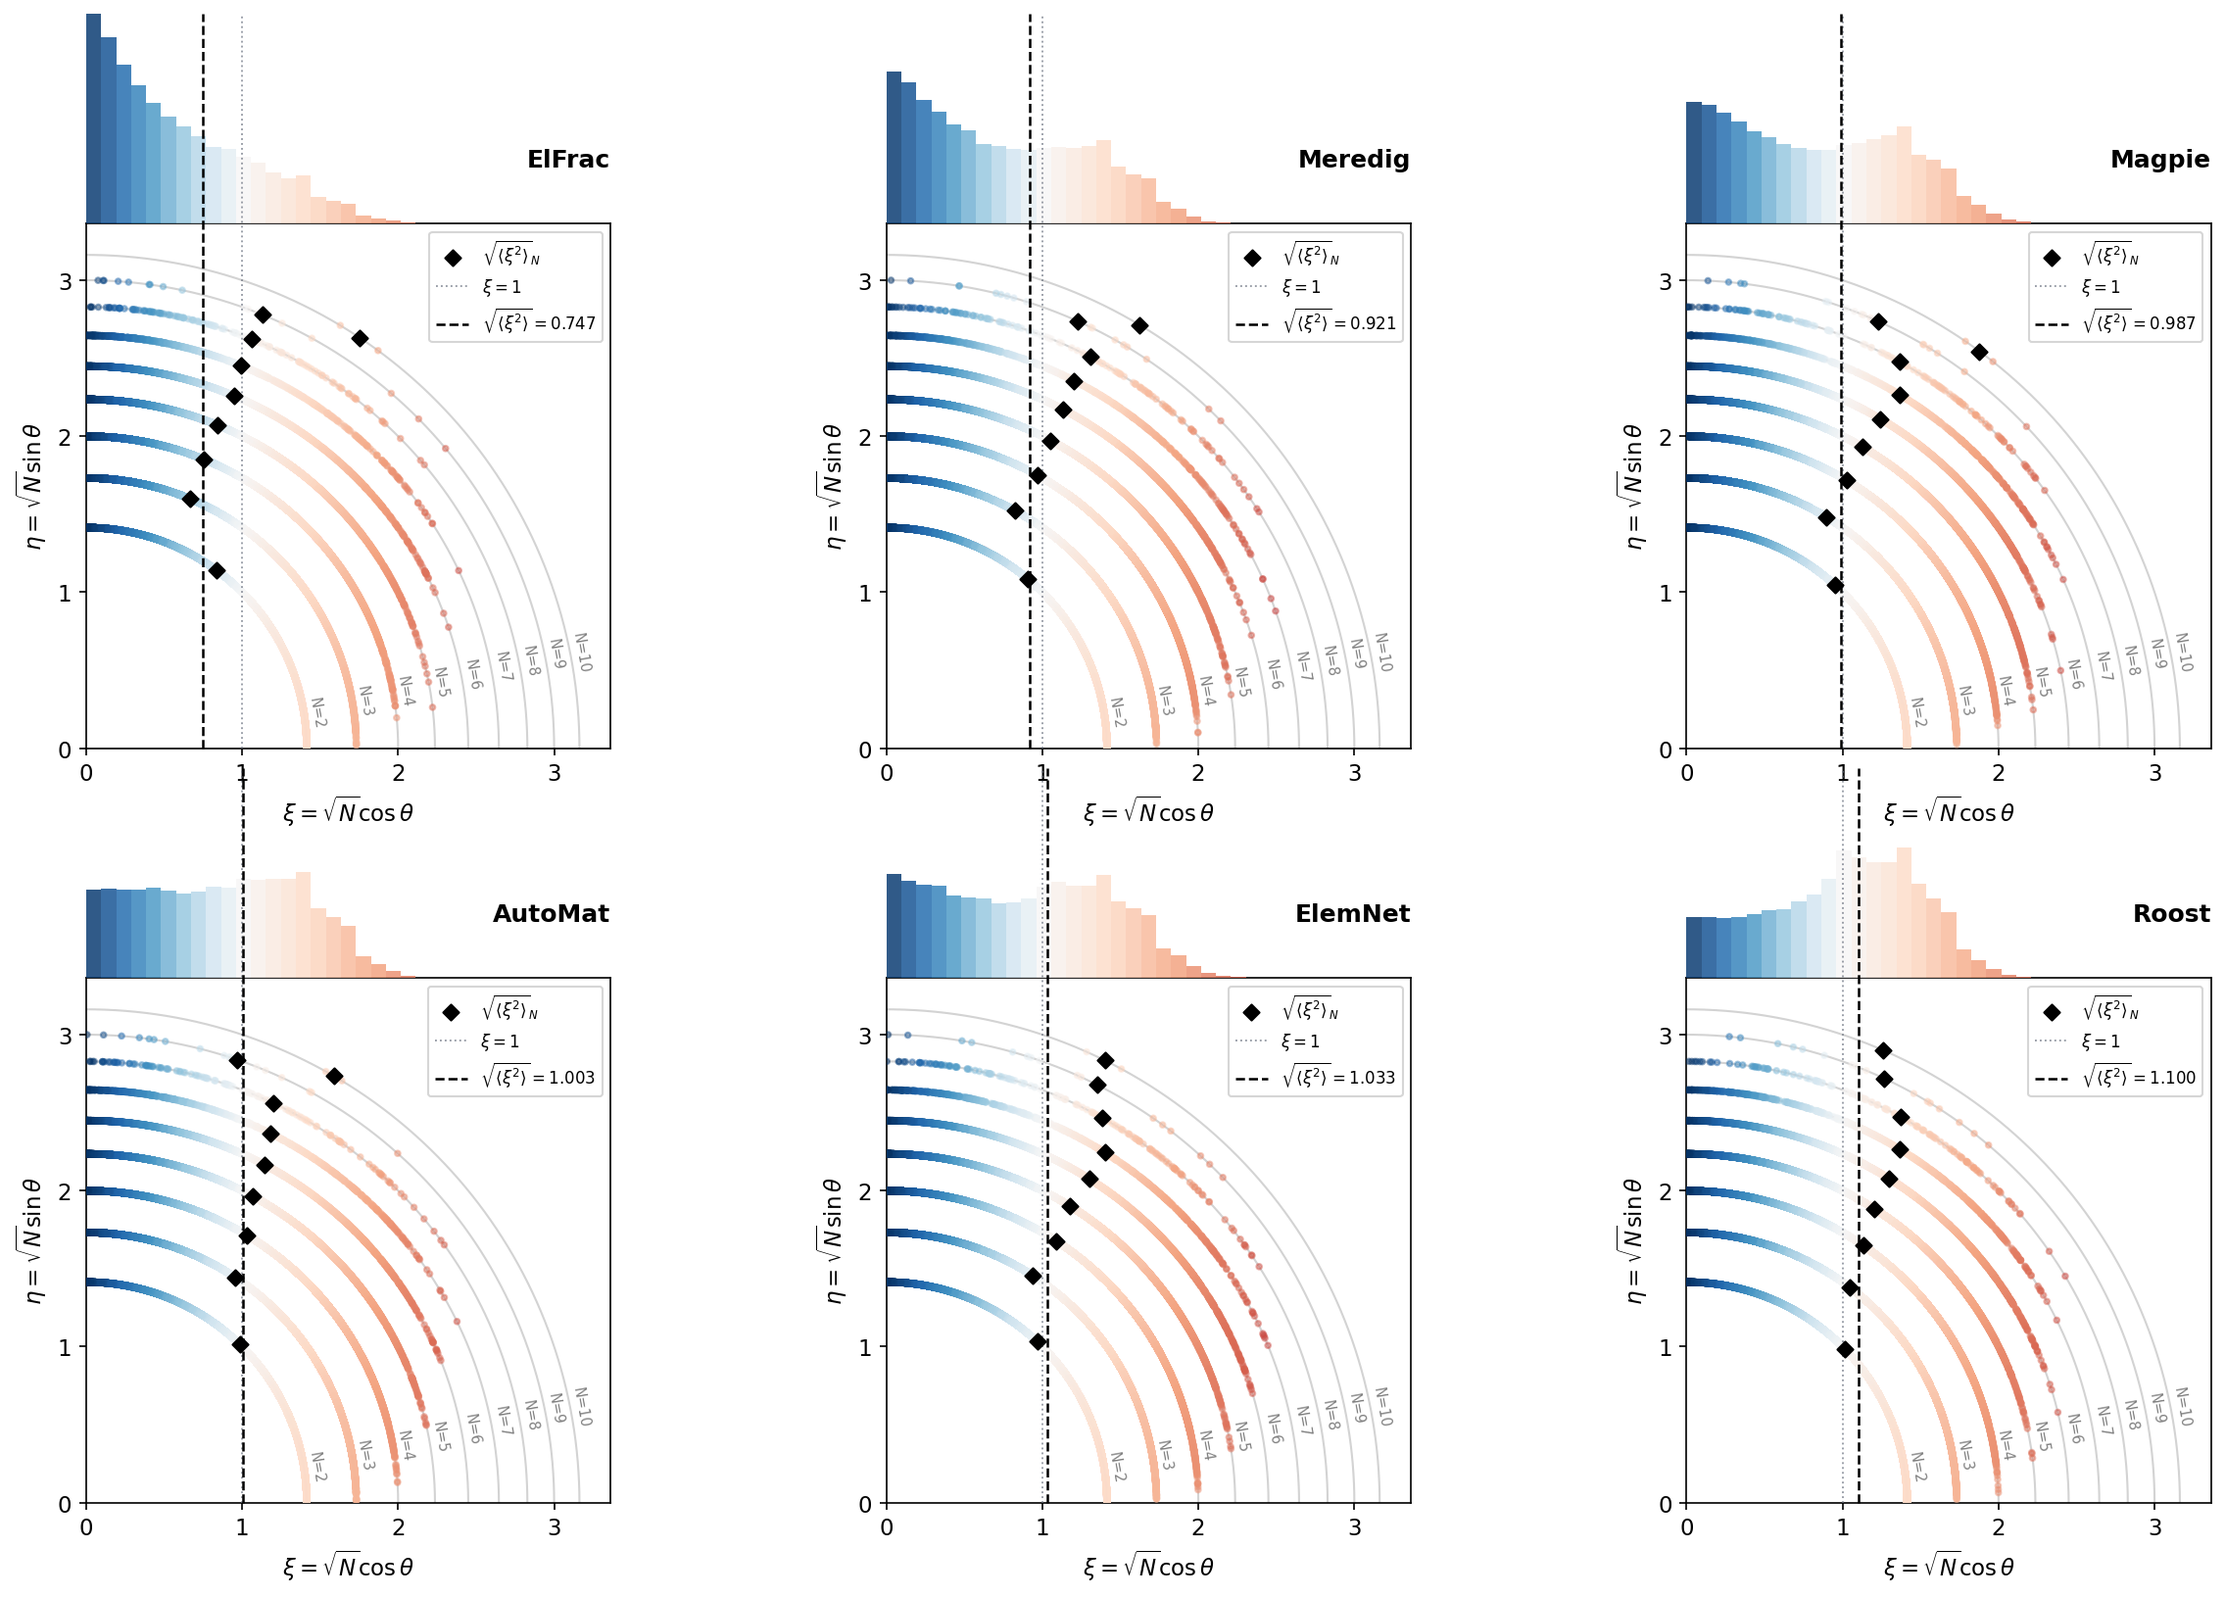
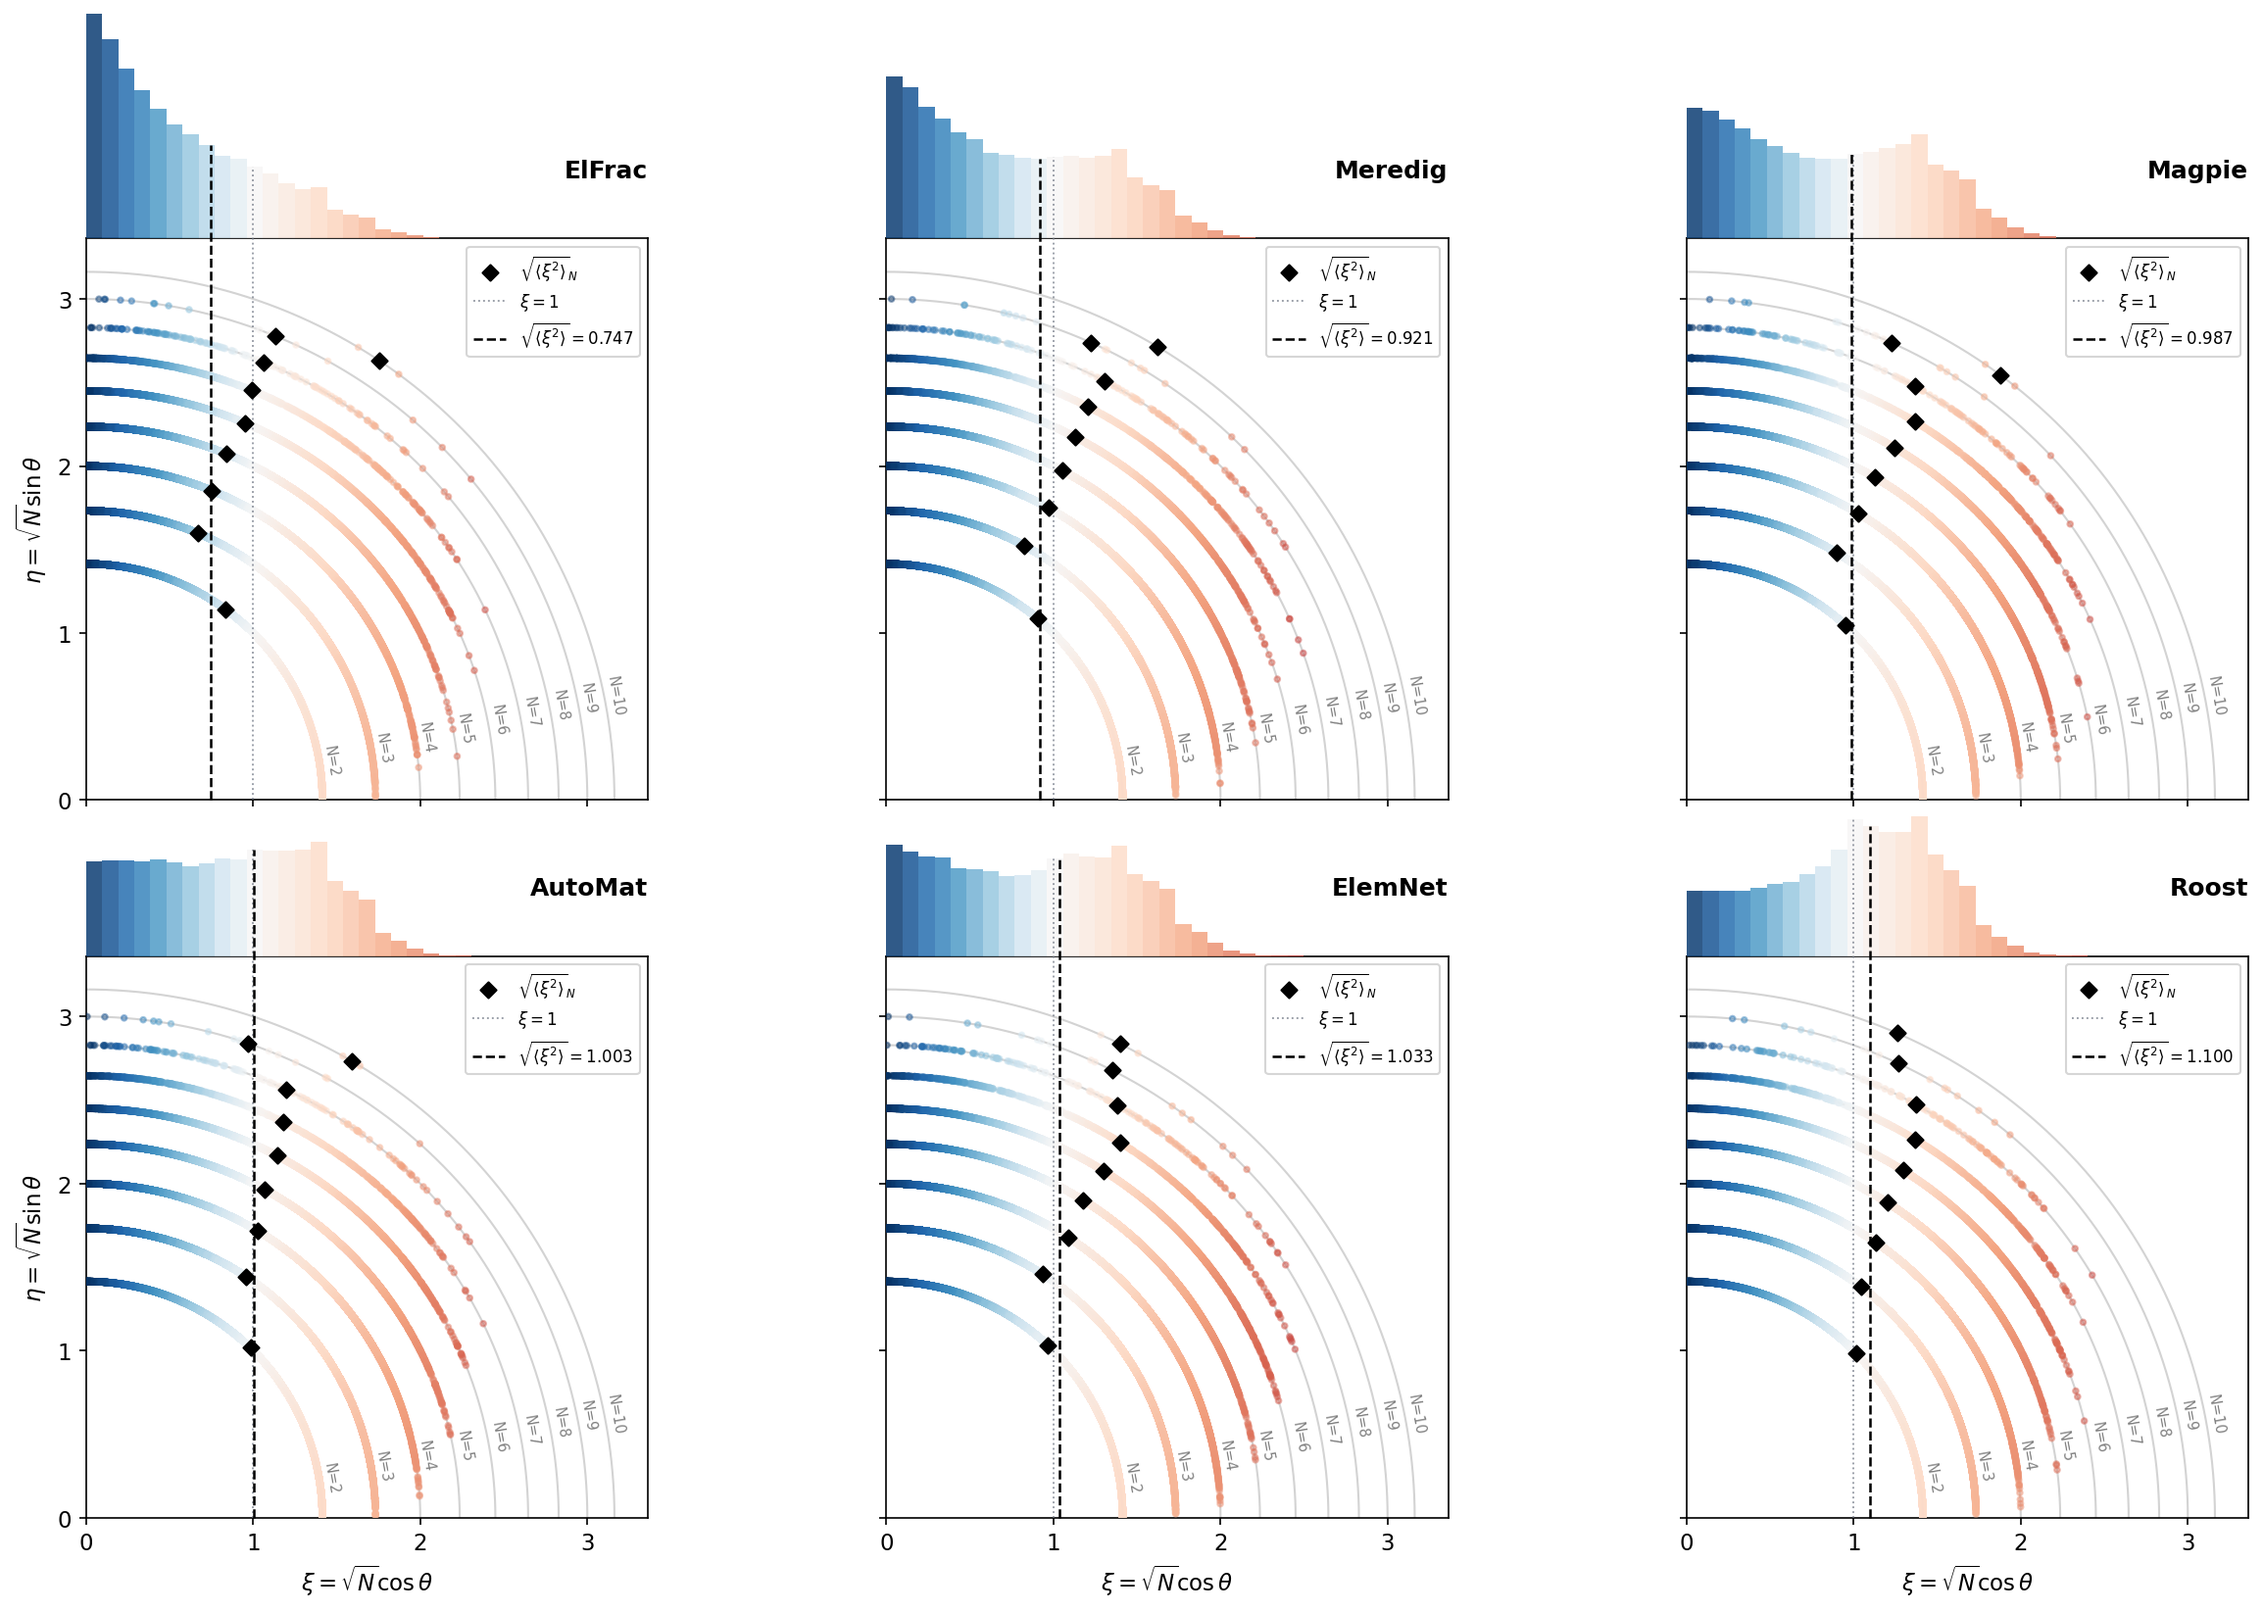
Updated Graphics

diff --git a/figure2_circles.py b/figure2_circles.py
@@ -17,13 +17,14 @@ import matplotlib
 matplotlib.use("Agg")
 import matplotlib.pyplot as plt
 from matplotlib.colors import TwoSlopeNorm
+import math as _math
 
 # -- Config -------------------------------------------------------------------
 COL_REF = '#6B7280'
 
 RNG    = np.random.default_rng(42)
 N_VALS = [2, 3, 4, 5, 6, 7, 8, 9, 10]
-N_PER  = 1000
+N_PER  = 10000
 CMAP   = 'RdBu_r'
 norm   = TwoSlopeNorm(vmin=0, vcenter=1.0, vmax=np.sqrt(10))
 
@@ -52,13 +53,58 @@ data = {}
 for key, fn in GEN.items():
     data[key] = {N: fn(N, N_PER, RNG) for N in N_VALS}
 
+# -- Theoretical null distribution --------------------------------------------
+# p_N(xi) = 2 / (sqrt(N) * B(1/2, (N-1)/2)) * (1 - xi^2/N)^((N-3)/2)
+# for 0 <= xi <= sqrt(N), derived from cos^2(theta) ~ Beta(1/2, (N-1)/2).
+#
+# E[xi^2] = 1 for every N  =>  all diamonds sit exactly at xi = 1.
+#
+# N=2 special case: p_2(xi) = sqrt(2) / (pi * sqrt(2 - xi^2))
+#   => indefinite integral: (2/pi) arcsin(xi / sqrt(2))  (handled analytically)
+# N>=3: smooth on [0, sqrt(N)], integrated by trapezoid rule on a fine grid.
+
+def _log_beta(a, b):
+    return _math.lgamma(a) + _math.lgamma(b) - _math.lgamma(a + b)
+
+def _xi_integral_N(lo, hi, N):
+    """Exact integral of p_N(xi) over [lo, hi]."""
+    sqN = _math.sqrt(N)
+    lo  = max(lo, 0.0)
+    hi  = min(hi, sqN)
+    if lo >= hi:
+        return 0.0
+    if N == 2:
+        # Exact antiderivative: (2/pi) * arcsin(xi / sqrt(2))
+        return (2.0 / _math.pi) * (_math.asin(hi / sqN) - _math.asin(lo / sqN))
+    # N >= 3: smooth integrand, trapezoid rule on 800 sub-points
+    n_pts  = 800
+    xi_arr = np.linspace(lo, hi, n_pts + 1)
+    exp    = (N - 3) / 2.0
+    log_c  = _math.log(2.0 / sqN) - _log_beta(0.5, (N - 1) / 2.0)
+    vals   = np.exp(log_c + exp * np.log(np.maximum(1.0 - xi_arr**2 / N, 1e-300)))
+    return float(np.trapezoid(vals, xi_arr))
+
+
+def _theoretical_hist_bars(edges, N_vals):
+    """Equal-weight mixture: density per bin (integral / bin_width)."""
+    densities = []
+    for lo, hi in zip(edges[:-1], edges[1:]):
+        total = sum(_xi_integral_N(lo, hi, N) for N in N_vals)
+        densities.append((total / len(N_vals)) / (hi - lo))
+    return np.array(densities)
+
+
 # -- Panel drawing ------------------------------------------------------------
 arc_theta = np.linspace(0, np.pi / 2, 300)
 
 def draw_panel(ax, key):
-    all_xi  = np.concatenate([data[key][N] for N in N_VALS])
-    mean_xi = np.sqrt(np.mean(all_xi ** 2))
+    all_xi   = np.concatenate([data[key][N] for N in N_VALS])
     cmap_obj = plt.get_cmap(CMAP)
+
+    # Theoretical null: RMS xi = 1 exactly for every N (E[cos^2 theta] = 1/N).
+    # Empirical panel: compute from the simulated data.
+    theoretical = (key == 'stat')
+    mean_xi = 1.0 if theoretical else np.sqrt(np.mean(all_xi ** 2))
 
     # Concentric arcs + N labels
     for N in N_VALS:
@@ -81,12 +127,17 @@ def draw_panel(ax, key):
                s=7, alpha=0.5, zorder=3)
 
     # Per-N RMS-xi diamonds
+    # Theoretical null: RMS xi_N = 1 for all N; empirical: compute from data.
     first = True
     for N in N_VALS:
-        xi_s = np.clip(GEN[key](N, N_PER * 8, RNG), 0, np.sqrt(N))
-        m    = np.sqrt(np.mean(xi_s ** 2))
-        md   = np.sqrt(max(N - m ** 2, 0))
-        kw   = dict(color='black', s=30, marker='D', zorder=5)
+        if theoretical:
+            m  = 1.0                          # exact: E[xi^2] = 1 for all N
+            md = np.sqrt(max(N - 1.0, 0))
+        else:
+            xi_s = np.clip(GEN[key](N, N_PER * 8, RNG), 0, np.sqrt(N))
+            m    = np.sqrt(np.mean(xi_s ** 2))
+            md   = np.sqrt(max(N - m ** 2, 0))
+        kw = dict(color='black', s=30, marker='D', zorder=5)
         if first:
             ax.scatter([m], [md], label=r'$\sqrt{\langle\xi^2\rangle}_N$', **kw)
             first = False
@@ -94,7 +145,13 @@ def draw_panel(ax, key):
             ax.scatter([m], [md], **kw)
 
     # Histogram bars -- outside the frame (clip_on=False, bottom=CIRC_TOP)
-    counts, edges = np.histogram(all_xi, bins=35, range=(0, CIRC_TOP), density=True)
+    edges = np.linspace(0, CIRC_TOP, 36)
+    if theoretical:
+        print("Computing theoretical histogram bars …")
+        counts = _theoretical_hist_bars(edges, N_VALS)
+    else:
+        counts, _ = np.histogram(all_xi, bins=edges, density=True)
+
     for left, right, h in zip(edges[:-1], edges[1:], counts):
         xi_mid = (left + right) / 2
         bar_h  = h * HIST_SCALE
@@ -103,12 +160,20 @@ def draw_panel(ax, key):
                align='edge', edgecolor='none', alpha=0.85,
                zorder=3, clip_on=False)
 
-    # Reference lines through circle region AND histogram (clip_on=False)
-    ax.plot([1.0, 1.0], [0, FULL_H], color=COL_REF, lw=0.9, ls=':',
+    # Reference lines -- stop at the top of their overlapping histogram bar
+    def _vline_top(x_val):
+        for i in range(len(counts)):
+            if edges[i] <= x_val < edges[i + 1]:
+                return float(CIRC_TOP + counts[i] * HIST_SCALE)
+        return float(CIRC_TOP)
+
+    xi1_top = _vline_top(1.0)
+    rms_top = _vline_top(mean_xi)
+    ax.plot([1.0, 1.0], [0, xi1_top], color=COL_REF, lw=0.9, ls=':',
             alpha=0.7, zorder=4, clip_on=False, label=r'$\xi = 1$')
-    ax.plot([mean_xi, mean_xi], [0, FULL_H], color='black', lw=1.2, ls='--',
+    ax.plot([mean_xi, mean_xi], [0, rms_top], color='black', lw=1.2, ls='--',
             zorder=5, clip_on=False,
-            label=r'$\sqrt{\langle\xi^2\rangle} = ' + rf'{mean_xi:.2f}$')
+            label=r'$\sqrt{\langle\xi^2\rangle} = ' + rf'{mean_xi:.3f}$')
 
     # -- Frame wraps circle region only: ylim = (0, CIRC_TOP) ----------------
     ax.set_xlim(0, CIRC_TOP)

diff --git a/interference_score.py b/interference_score.py
@@ -254,7 +254,8 @@ def plot_interference_circles(results, models):
         # Histogram bars floating above the frame (clip_on=False)
         rms_xi = math.sqrt(float(np.mean(xis ** 2)))
         counts, edges = np.histogram(xis, bins=35, range=(0, lim), density=True)
-        for left, right, h in zip(edges[:-1], edges[1:], counts):
+        bar_tops = lim + counts * HIST_SCALE   # top y of each bar in data coords
+        for left, right, h, bar_top in zip(edges[:-1], edges[1:], counts, bar_tops):
             xi_mid = (left + right) / 2
             bar_h  = h * HIST_SCALE
             ax.bar(left, bar_h, width=right - left, bottom=lim,
@@ -262,21 +263,32 @@ def plot_interference_circles(results, models):
                    align='edge', edgecolor='none', alpha=0.85,
                    zorder=3, clip_on=False)
 
-        # Reference lines through circle region and histogram
-        ax.plot([1.0, 1.0], [0, FULL_H], color=_COL_REF, lw=0.9, ls=':',
+        def _vline_top(x_val):
+            """Return the top of the histogram bar that x_val falls in (or lim if none)."""
+            for i in range(len(counts)):
+                if edges[i] <= x_val < edges[i + 1]:
+                    return float(lim + counts[i] * HIST_SCALE)
+            return float(lim)
+
+        # Reference lines — extend only to the top of their overlapping histogram bar
+        xi1_top = _vline_top(1.0)
+        rms_top = _vline_top(rms_xi)
+        ax.plot([1.0, 1.0], [0, xi1_top], color=_COL_REF, lw=0.9, ls=':',
                 alpha=0.7, zorder=4, clip_on=False, label=r'$\xi = 1$')
-        ax.plot([rms_xi, rms_xi], [0, FULL_H], color='black', lw=1.2, ls='--',
+        ax.plot([rms_xi, rms_xi], [0, rms_top], color='black', lw=1.2, ls='--',
                 zorder=5, clip_on=False,
                 label=r'$\sqrt{\langle\xi^2\rangle} = ' + rf'{rms_xi:.3f}$')
 
-        # Frame wraps circle region only; histogram sits outside above
+        # Full box frame; ticks and labels on bottom and left only
         ax.set_xlim(0, lim)
         ax.set_ylim(0, lim)
         ax.set_xticks(tick_vals)
         ax.set_yticks(tick_vals)
+        
         ax.set_xlabel(r'$\xi = \sqrt{N}\cos\theta$', fontsize=11)
         ax.set_ylabel(r'$\eta = \sqrt{N}\sin\theta$', fontsize=11)
         ax.set_aspect('equal')
+        ax.tick_params(top=False, right=False)
         ax.legend(fontsize=8, loc='upper right')
 
         # Model name above the histogram (no letter label)
@@ -288,8 +300,19 @@ def plot_interference_circles(results, models):
     # Hide any unused axes in the grid
     for idx in range(n_models, n_rows * n_cols):
         axes[idx // n_cols, idx % n_cols].set_visible(False)
+
+    for r in range(n_rows):
+        for c in range(n_cols):
+            ax = axes[r, c]
+            if c != 0:
+                ax.tick_params(labelleft=False)
+                ax.set_ylabel('')
+            if r != n_rows - 1:
+                ax.tick_params(labelbottom=False)
+                ax.set_xlabel('')
         
-    plt.tight_layout()
+        
+    plt.tight_layout(w_pad=4.0)
     plt.savefig("interference_circles.png", dpi=150, bbox_inches="tight")
     plt.close(fig)
     print("Figure saved to interference_circles.png")
